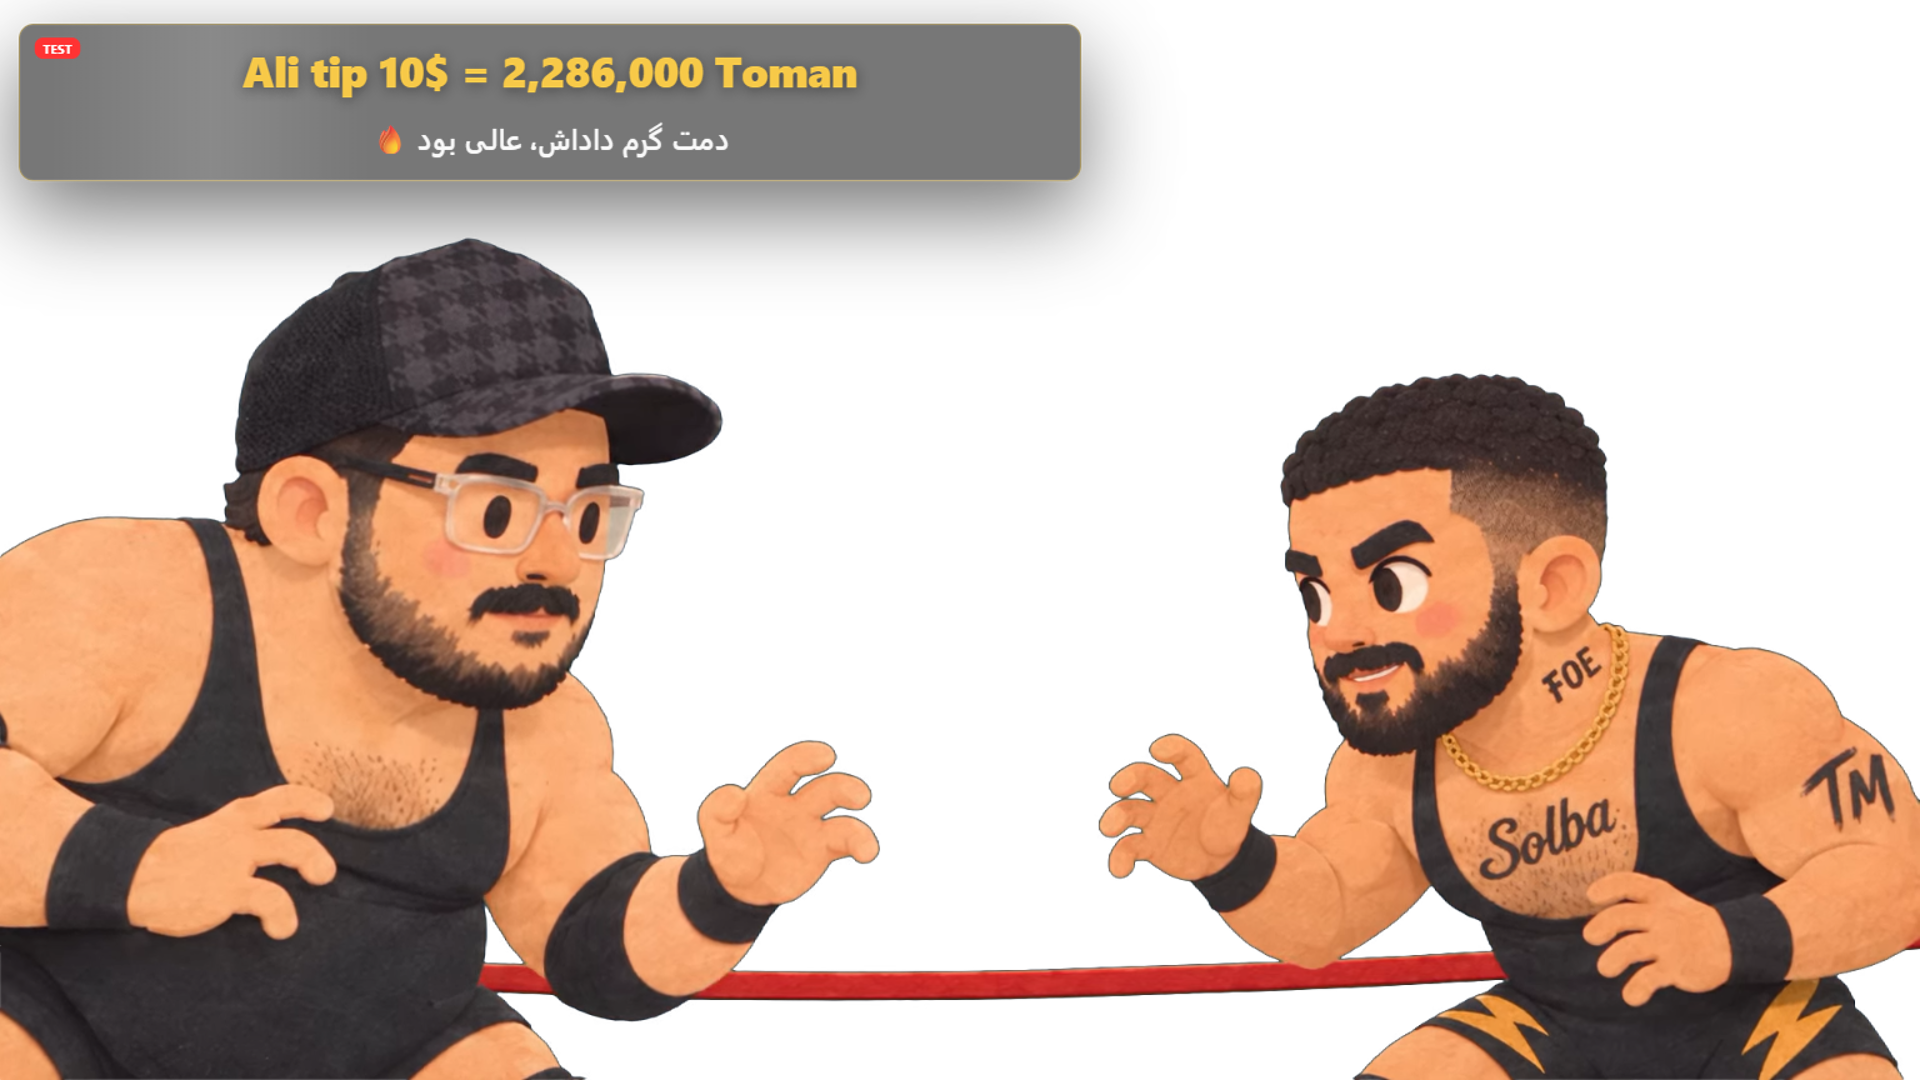
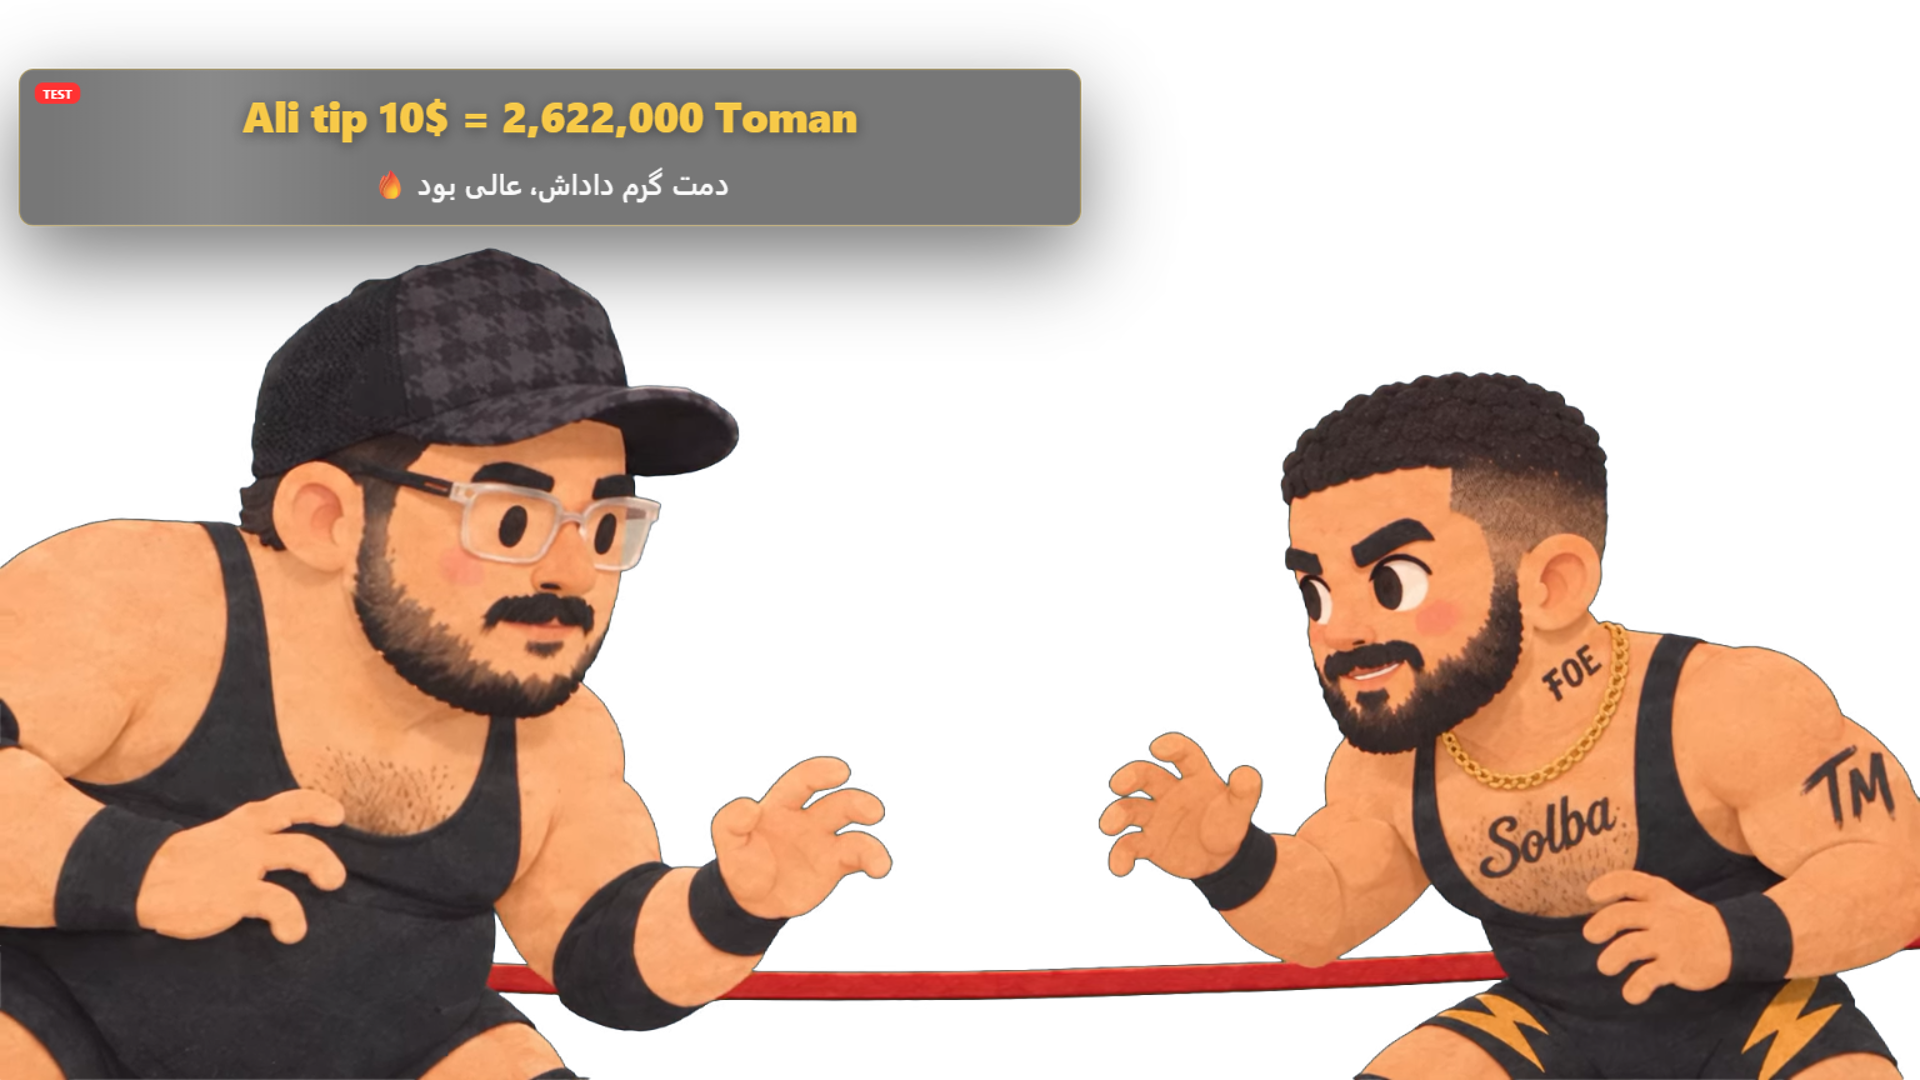
1.5.0: "Mint stage" look and motion for the controller window
- Releases the ui/mint branch (140d272, 15316ba): light mint glass theme, 3D
  page turns, staggered cards, pointer tilt, spring nav, pulsing connection
  dots; all motion off under prefers-reduced-motion. Card rows fill every
  width from 1000 to 1900 px; text contrast measured from pixels passes
  WCAG AA on every page; aria-current on the active nav button.
- CHANGELOG 1.5.0 (1.4.2 stays its own section). Release notes 1.5.0;
  README-FA version; README screenshots retaken from an isolated 1.5.0 run.

diff --git a/docs/RELEASE_NOTES_1.5.0.md b/docs/RELEASE_NOTES_1.5.0.md
@@ -1,0 +1,22 @@
+## Sahne+ 1.5.0
+
+**Version:** 1.5.0 · **Release date:** 2026-10-18
+
+### What's new
+- **New look: «Mint stage».** The controller window moves from the dark theme to a light mint glass look — frosted panels, deep-green ink, pill buttons, the SAHNE mark as a quiet pattern. Pages turn in 3D, cards rise in with a stagger and tilt under the pointer, the nav capsule springs and the connection dots pulse. All motion is switched off when Windows' «reduce motion» is on. Nothing changes in what the app does: files, tiers, alerts, KickBot, Kick, StreamElements and the Browser Source behave exactly as in 1.4.2.
+- **Layout and readability.** Card rows fill every window width from 1000 to 1900 px without empty holes; text contrast on every page was measured from rendered pixels and now meets WCAG AA; every control keeps a visible focus ring; native widgets stay light under Windows dark mode.
+- Includes **1.4.2** (released a few hours earlier): Kick subs and gift subs work again after Kick rotated the key of its public chat feed on 2026-10-13, and the app now fetches a new key by itself when that happens again. If you are on 1.4.1 or older, this is the update that brings your Kick alerts back.
+- Verify this installer: `gh attestation verify .\Sahne-Plus-Setup-1.5.0.exe --repo AmirEyZed/sahne-plus`
+
+### How to update
+Sahne+ 1.3.1 and later show a notice inside the app: click **آپدیت**. From 1.3.0 or older, install this file manually once.
+
+### Files in this release
+- `Sahne-Plus-Setup-1.5.0.exe` — Windows installer (per-user, no admin rights needed)
+- `SHA256SUMS.txt` — SHA-256 checksum of the installer (generated in the release workflow)
+- `README-FA.txt` — راهنمای فارسی
+
+### Notice
+SHA-256 checksums verify the integrity of downloaded files; the provenance attestation proves the file was built by this repository's workflow from the public source. Neither is a security audit. The installer is not code-signed yet; Windows SmartScreen may warn — verify, then choose **More info → Run anyway**. Download Sahne+ only from this repository's Releases page.
+
+Sahne+ is an independent third-party application and is not affiliated with, endorsed by, or sponsored by Kick, KickBot, StreamElements, baha24 or Bonbast. Privacy: [PRIVACY.md](https://github.com/AmirEyZed/sahne-plus/blob/main/PRIVACY.md) · Terms: [TERMS.md](https://github.com/AmirEyZed/sahne-plus/blob/main/TERMS.md) · Security: [SECURITY.md](https://github.com/AmirEyZed/sahne-plus/blob/main/SECURITY.md)

diff --git a/CHANGELOG.md b/CHANGELOG.md
@@ -2,6 +2,13 @@
 
 All notable changes to the public builds. Versions follow semantic versioning.
 
+## 1.5.0 — 2026-10-18
+
+- New look: **«Mint stage»** — the controller window moved from the dark theme to a light mint glass look: frosted panels, deep-green ink, pill buttons, the SAHNE mark as a quiet tiled pattern and a glossy floating mark in the sidebar. Pages turn in 3D in the direction of the nav order (RTL aware), cards rise in with a stagger, file / KPI / home cards tilt under the pointer with a glint, the nav capsule springs, the connection dots pulse, analytics lines draw and donor bars grow. Every animation is switched off under Windows' «reduce motion» setting. The window background matches the theme while the page loads.
+- Layout: card rows fill their row at every window width from 1000 to 1900 px (no empty holes), and the quick-test buttons stack by card width instead of overflowing.
+- Accessibility: text contrast was measured from rendered pixels on every page; placeholders, the nav badge, the success/warning/danger text colours, muted text and the file-card captions were below WCAG AA and now every sample passes 4.5:1 (3:1 for large text). The active nav button carries `aria-current="page"`, every control keeps a visible focus ring, native widgets stay light under Windows dark mode, select fields pad the text on the start side in RTL, and the documents viewer wraps long URLs. The live-status pulse animates on the compositor only.
+- Docs: README screenshots retaken with the new look.
+
 ## 1.4.2 — 2026-10-18
 
 - Fixed: **Kick subscriptions and gifted subscriptions stopped arriving on 2026-10-13.** Kick retired the key of its public chat feed (Pusher app `32cbd69e4b950bf97679`); every version up to 1.4.1 kept reconnecting with it, Pusher answered «App key not in this cluster» (error 4001) every few seconds, and the Settings page showed «قطع شده، تلاش مجدد…» forever. 1.4.2 connects with Kick's current key (`34bf7a0ff419a2a775b9`), and when Pusher rejects a key again it asks kick.com which key its own page uses (`web.kick.com/api/v1/realtime/connection`, through the same proxy order as the channel lookup, at most every 5 minutes and right after «ذخیره») and keeps the answer in `config.json`. If that lookup fails too (kick.com filtered, VPN off), the Kick status chip now says so — «کلید چت کیک عوض شده…» with what to do — instead of «تلاش مجدد». The rejected key is logged once, not on every attempt.
